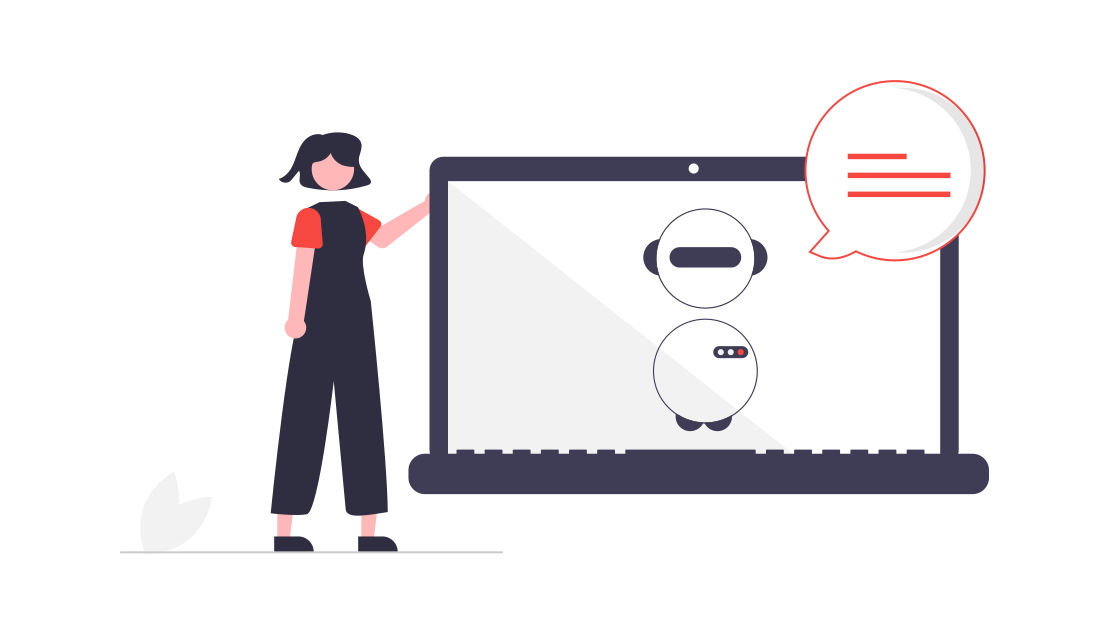
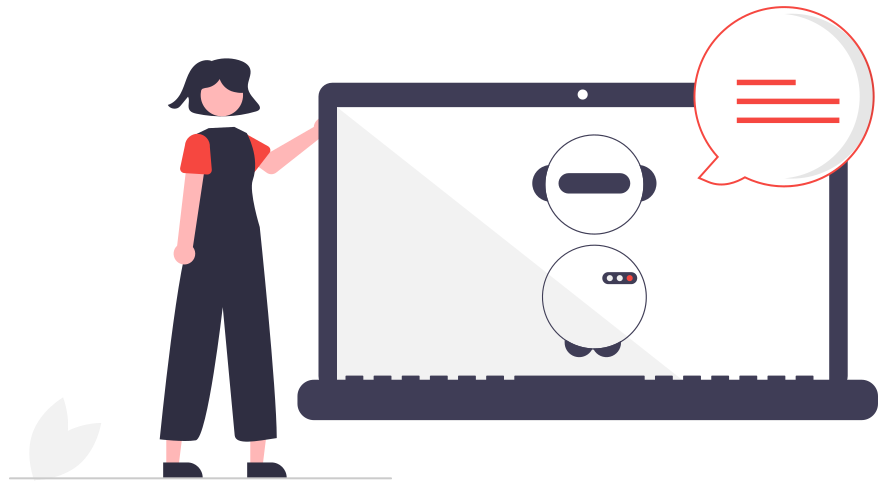
First mobile corrections

diff --git a/index.html b/index.html
@@ -70,8 +70,8 @@
         </section>
         <section id="projects" class="solutions-section js-content-section">
             <p>
-                <img src="./img/person-notebook.png">
                 <h1>The problems we solve </h1>
+                <img src="./img/person-notebook.png">
                 One of the main challenges that all communities face is meeting the expectations of their members, which is something difficult to achieve of the common problems that are found in most communities: no focus on member's experience, confusing on boarding processes, no alignment of incentives, no transparency or clear rewards, no pathways to build relationships...
             </p>
             <p>We combine our <b>human talent and technological tools</b> to provide solutions to these problems by:</p>
@@ -81,39 +81,6 @@
             <p><span>2</span> Creating a space where community builders can learn, grow, connect and find opportunities.</p>
             </div>
         </section>
-        <!--<div class="separator">
-            <div class="separator1"></div>
-            <div class="separator2"></div>
-        </div>-->
-
-        <script> 
-            function nextSlide() {
-                if (document.getElementById("slide1").classList.contains("active")) {
-                    document.getElementById("slide1").style.display = "none";
-                    document.getElementById("slide1").classList.remove("active");
-                    document.getElementById("slide2").style.display = "inline-block";
-                    document.getElementById("slide2").classList.add("active");
-                } else if (document.getElementById("slide2").classList.contains("active")) {
-                    document.getElementById("slide2").style.display = "none";
-                    document.getElementById("slide2").classList.remove("active");
-                    document.getElementById("slide3").style.display = "inline-block";
-                    document.getElementById("slide3").classList.add("active");
-                }
-            }
-            function prevSlide() {
-                if (document.getElementById("slide2").classList.contains("active")) {
-                    document.getElementById("slide2").style.display = "none";
-                    document.getElementById("slide2").classList.remove("active");
-                    document.getElementById("slide1").style.display = "inline-block";
-                    document.getElementById("slide1").classList.add("active");
-                } else if (document.getElementById("slide3").classList.contains("active")) {
-                    document.getElementById("slide3").style.display = "none";
-                    document.getElementById("slide3").classList.remove("active");
-                    document.getElementById("slide2").style.display = "inline-block";
-                    document.getElementById("slide2").classList.add("active");
-                }
-            } 
-        </script>
         <section id="get-involved" class="js-content-section">
             <div class="container">
                 <h1>Do you want to get involved?</h1> 

diff --git a/css/style.css b/css/style.css
@@ -88,7 +88,6 @@ body {
 
 #content-container section {
     max-width: 100%;
-    min-width: 1200px;
     margin-left: 50%;
     transform: translateX(-50%);
     margin-bottom: 20px;
@@ -139,6 +138,7 @@ body {
 .canu-mascot {
     max-width: 100%;
     width: 80%;
+    min-width: 350px;
 }
 
 .disc-join {
@@ -337,6 +337,10 @@ section#home .container {
     width: 100% !important;
 }
 
+section#get-involved {
+    min-width: 1200px;
+}
+
 section#get-involved container {
     margin: 0 10vw !important;
 }
@@ -424,6 +428,7 @@ footer {
 
 .here-comes {
     width: 100%;
+    min-width: auto !important;
     background-color: #353347;
     color: white;
     padding-left: 19% !important;
@@ -434,6 +439,8 @@ footer {
 
 .solutions-section {
     width: 80%;
+    max-width: 100vw !important;
+    min-width: auto !important;
 }
 
 .solutions-section img {
@@ -493,4 +500,43 @@ footer {
 
 .social-media-row {
     margin-bottom: 0.5em;
+}
+
+@media only screen and (max-width: 600px) {
+    body {
+        font-size: 2em;
+    }
+
+    .home-section {
+        max-width: 100% !important;
+        width: 100% !important;
+    }
+
+    .img-group {
+        display: none;
+    }
+
+    .here-comes {
+        width: 100% !important;
+        max-width: 100% !important;
+        min-width: 100% !important;
+        padding-left: 10% !important;
+        padding-right: 10% !important;
+    }
+
+    .solutions-section {
+        width: 90%;
+    }
+
+    .solutions-section img {
+        display: none;
+    }
+
+    .list {
+        margin-left: 30px !important;
+    }
+
+    .canu-mascot {
+        margin-top: 100px;
+    }
 }
